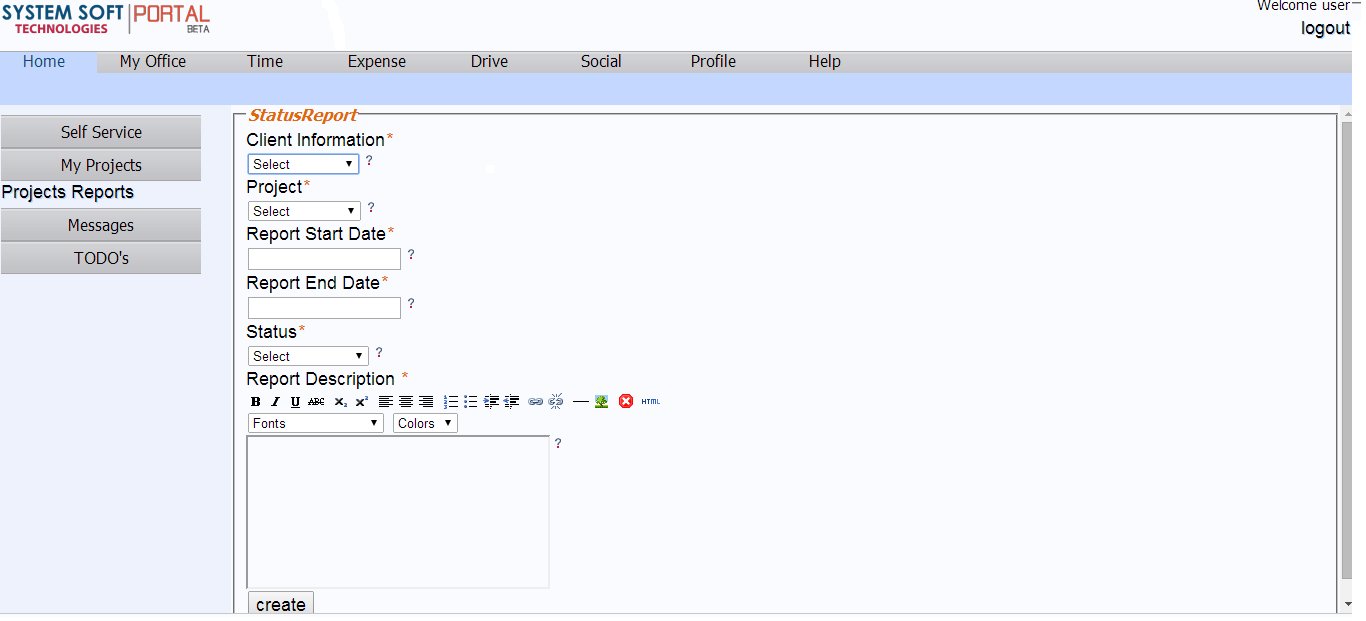
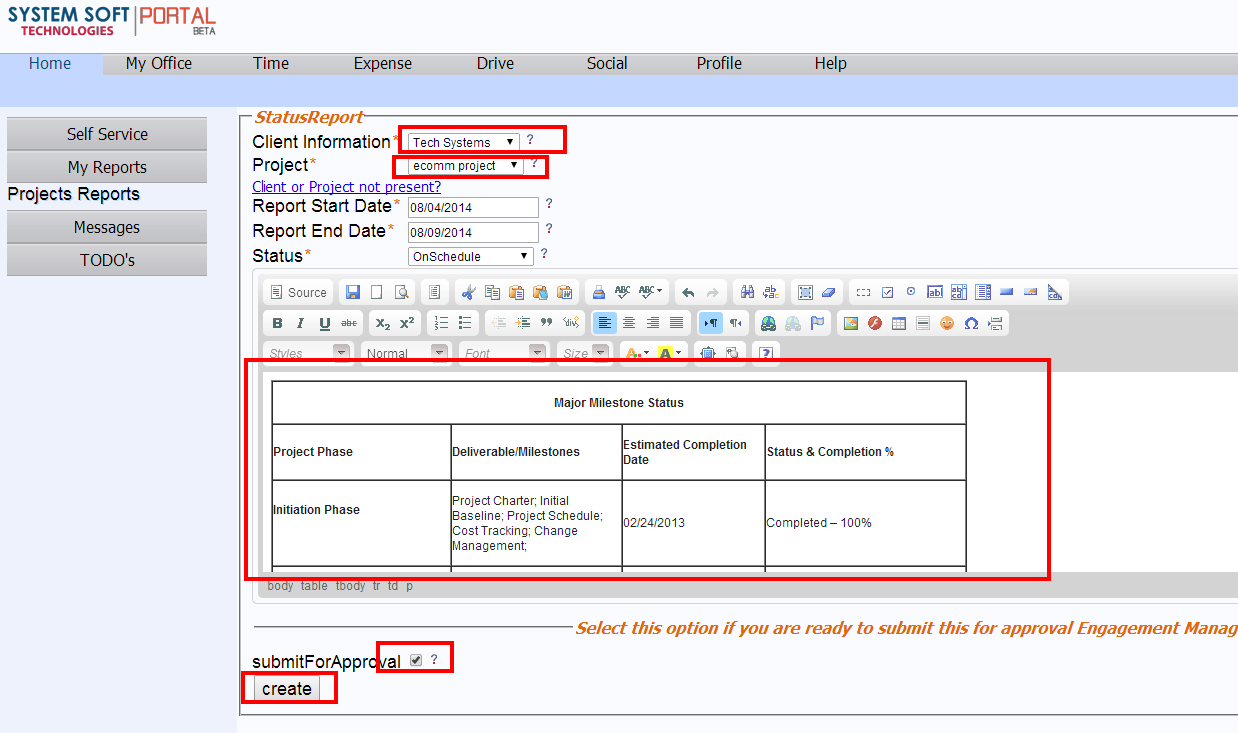
doc for status reports.
git-svn-id: http://tools.sstech.us/svn/office/trunk@4625 04aae24c-3eb2-d842-8c26-b4285eb26770

Changed region(s): [[0.0, 0.0, 1.0, 1.0], [0.6139, 0.7037, 0.706, 0.7343]]

diff --git a/office-master/office-jrs/src/main/java/info/yalamanchili/office/jrs/ext/CommentResource.java b/office-master/office-jrs/src/main/java/info/yalamanchili/office/jrs/ext/CommentResource.java
@@ -72,6 +72,9 @@ public class CommentResource {
     }
 
     protected void sendCommentNotification(Comment comment) {
+        if (comment.getNotifyEmployees() == null) {
+            return;
+        }
         Email email = new Email();
         for (Entry e : comment.getNotifyEmployees()) {
             email.addTo(EmployeeDao.instance().findEmployeWithEmpId(e.getId()).getPrimaryEmail().getEmail());

diff --git a/office-master/office-doc/src/site/markdown/office/statusreport/statusreport.md b/office-master/office-doc/src/site/markdown/office/statusreport/statusreport.md
@@ -1,20 +1,33 @@
 Projects Reports
 ===========
 
- - Employee Logs in to portal and submit a status report 
- - Navigate to Home --> My Projects --> Projects Reports --> Click Submit Project Status Report
- - Submit all required information in status report and click create button 
+ - Employees should submit the current project status report on a regular basis. 
+ - Navigate to Home --> My Reports --> Projects Reports --> Click Submit Project Status Report.
+ - Enter all required information in status report.
+ - Please select the  *Submit For Approval* check box if you are ready to submit the report for review to the Engagement Manager. Otherwise just create it and you can come back to update and submit for approval.
  - Once submitted the request it will send to the appropriate  department (Engagement) for approval and you will receive a email about the final decision. 
  - if client and project is not present please submit a request under service ticket .
- - GO TO **Home-->Self Service-->open ticket e=with other type ="other "and enter the details ** ticket goes to Engagement team .they will update the client and project dateils .
+ - GO TO **Home-->Self Service-->open ticket with other type ="other "and enter the details ** ticket goes to Engagement team.
+ - Once the ticket is resolved by entering the information you will receive a email and you can logback in to submit your reports.
+
+Reports updates
+----
+
+ - Once submitted Engagement and Hr Team can review and provide feedback with comments. you should be receiving a email about the comments.
+ - You can log back to portal and update your report to accordingly and save it.
+ - once done you can also add back a comment notifying your Engagement Manager.
 
 How To Submit Project Status Report
 ----
-![alt text](../../images/statusreport/statusreport.png "Status Report")
+![alt text](../../images/statusreport/create-status-report.png "Crate Status Report")
 
 Submit Project Status Report
 ----
-![alt text](../../images/statusreport/submit-status-report.png "Status Report")
+![alt text](../../images/statusreport/submit-status-report.png "Submit Status Report")
+
+Update Status Report in response to Comment
+----
+![alt text](../../images/statusreport/update-report.png "Update Status Report")
 
 Print Status Report
 ===========
@@ -23,8 +36,3 @@ Navigate to Home --> My Projects --> Projects Reports --> Print
 Print the Status Report
 ----
 ![alt text](../../images/statusreport/print-status-report.png "Status Report")
-
-Status Report pdf
-----
-![alt text](../../images/statusreport/status-report-pdf.png "Status Report")
-

diff --git a/office-master/office-doc/src/site/markdown/office/statusreport/statusreportprocess.md b/office-master/office-doc/src/site/markdown/office/statusreport/statusreportprocess.md
@@ -4,8 +4,27 @@ Project Status Process
  - When a employee submits Advance Requisition Request 
  - the approval Task is sent to Engagement team
  - Engagement team can validate and complete it and email notification will be sent to employee
- - If it is rejected a denial email will be sent to employee with description.
 
 Project Report Process
 ----
 ![alt text](../../images/statusreport/status-report-process.png "Status Report")
+
+
+Status Report Review Process
+----
+ - HR or EEM can add comments to the status report to provide feedback and select the employee to a notification is send to them.
+ - Employee can log back in to update the report based on your comments.
+
+Status Report Review Steps
+----
+![alt text](../../images/statusreport/review-report-1.png "Status Report")
+![alt text](../../images/statusreport/review-report-2.png "Status Report")
+![alt text](../../images/statusreport/add-comment.png "Status Report")
+
+Print the Status Report
+----
+![alt text](../../images/statusreport/print-status-report.png "Status Report")
+
+
+
+
